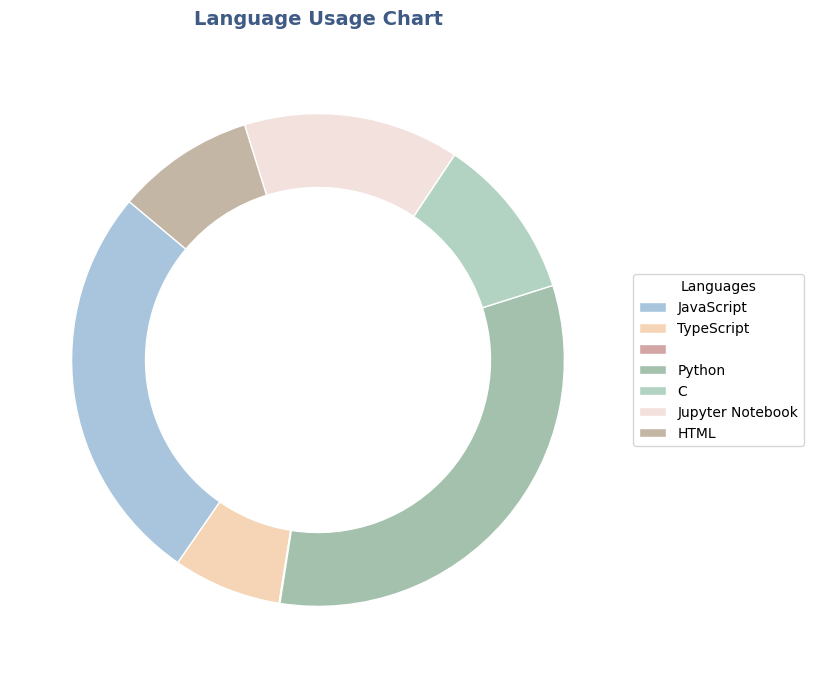
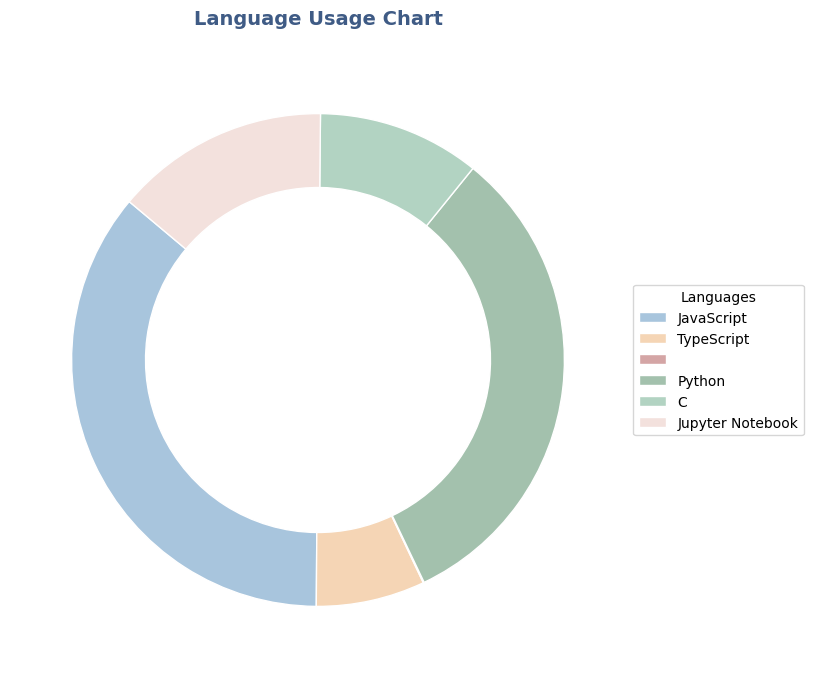
Staging changes before rebase

diff --git a/README.md b/README.md
@@ -5,7 +5,7 @@
 ## Language Usage
 
 >[!NOTE]
-> **Last updated: 2026-05-01 04:56:32 UTC**
+> **Last updated: 2026-06-01 07:33:36 UTC**
 
 >![Python](https://img.shields.io/badge/Language-Python-blue) ![C](https://img.shields.io/badge/Language-C-lightgrey) ![JavaScript](https://img.shields.io/badge/Language-JavaScript-yellow)
 >![HTML](https://img.shields.io/badge/Language-HTML-orange) ![CSS](https://img.shields.io/badge/Language-CSS-blueviolet) ![Solidity](https://img.shields.io/badge/Language-Solidity-gray)
@@ -14,25 +14,24 @@
 >[!CAUTION]
 > **language_usage = total_steps_languages:** 
 
-- JavaScript: 26.48%
-- TypeScript: 7.1%
+- JavaScript: 36.0%
+- TypeScript: 7.14%
 - None: 0.06%
-- Python: 32.36%
-- C: 10.75%
-- Jupyter Notebook: 14.17%
-- HTML: 9.07%
+- Python: 32.09%
+- C: 10.66%
+- Jupyter Notebook: 14.05%
 
 ![Language Usage Chart](language_usage.png)
 
 ## Language Details (Top 3)
 
-### Python
-- File count: 49579
-- Max steps in a file: 716465
-
 ### JavaScript
-- File count: 1533
+- File count: 2155
 - Max steps in a file: 987100
+
+### Python
+- File count: 49581
+- Max steps in a file: 716465
 
 ### Jupyter Notebook
 - File count: 141
